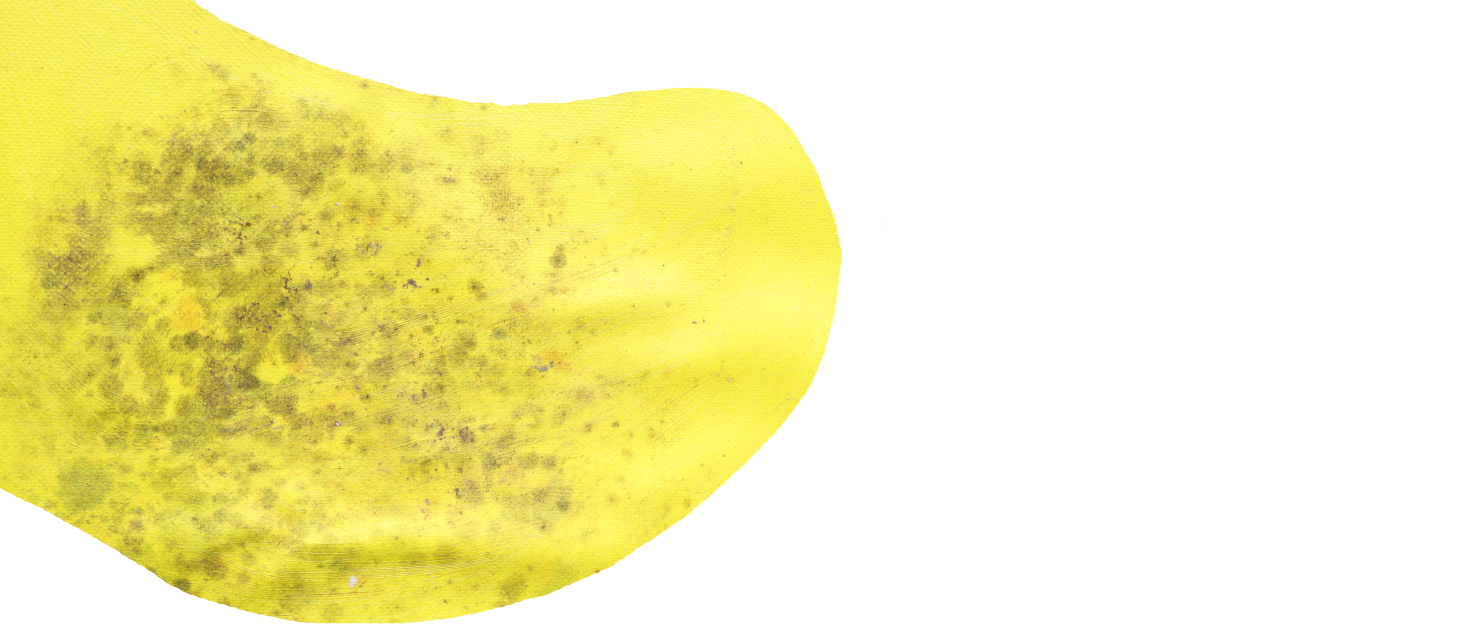
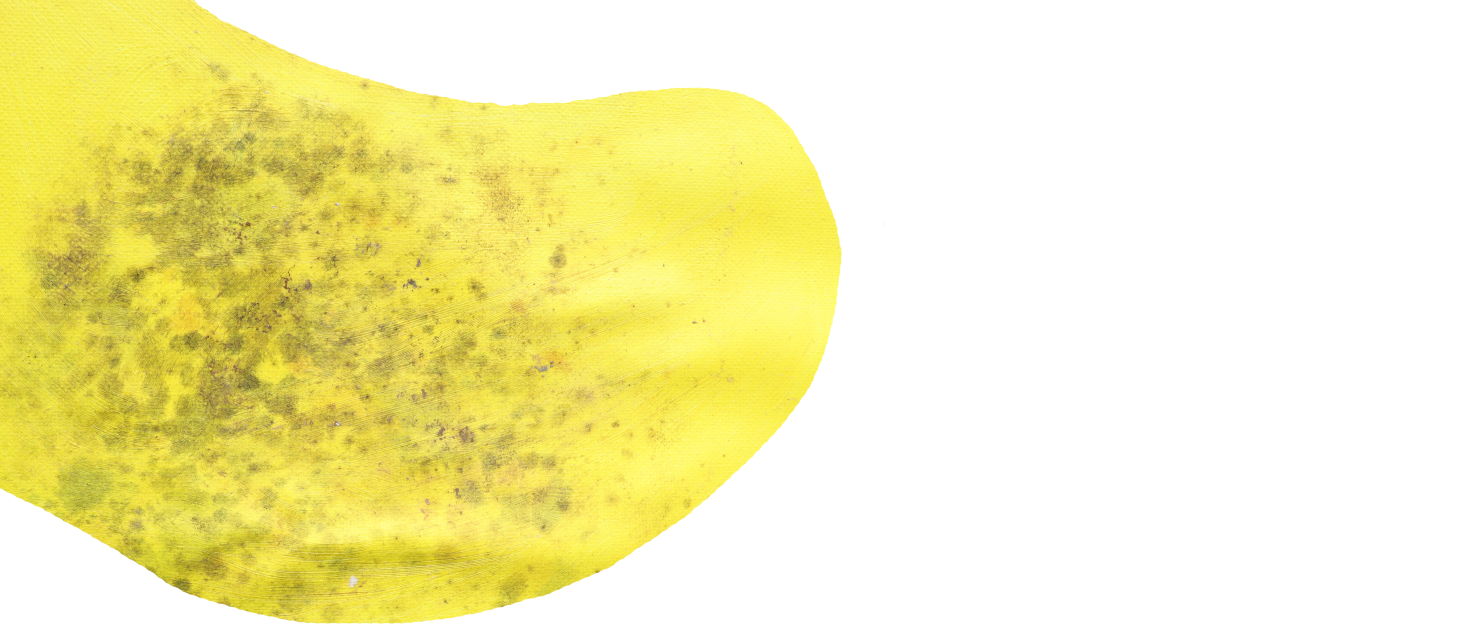
Shrink header

diff --git a/ya-theme/templates/index.html b/ya-theme/templates/index.html
@@ -2,24 +2,14 @@
 
 {% block text0 %}
     {% if language == "de" %}
-        im sinne eines postkolonialen diskurs soll
-        unterschiedliche verterer:innen von raeumlich und zeitlich getrennter avancierter
-        musiktraditionen innherlab
-        innerhalb der in ihrer tradition angemessenen auffuehreungsbedingungen.
+        click, click, click, yet another click, click, click
     {% else %}
-        enlish text enlish textenlish textenlish textenlish text
-        enlish text enlish textenlish textenlish textenlish text
-        enlish text enlish textenlish textenlish textenlish text
-        enlish text enlish textenlish textenlish textenlish text
+        click, click, click, yet another click, click, click
     {% endif %}
 {% endblock %}
 
 {% block text1 %}
     {% if language == "de" %}
-        im sinne eines postkolonialen diskurs soll
-        unterschiedliche verterer:innen von raeumlich und zeitlich getrennter avancierter
-        musiktraditionen innherlab
-        innerhalb der in ihrer tradition angemessenen auffuehreungsbedingungen.
     {% else %}
         enlish text enlish textenlish textenlish textenlish text
         enlish text enlish textenlish textenlish textenlish text

diff --git a/ya-theme/templates/homepage_base.html b/ya-theme/templates/homepage_base.html
@@ -22,16 +22,6 @@
     <div class="container has-text-right pr-4 mr-4">
         {{ language_selectors.get_language_selector(language, SITEURL + "/" + article.slug) }}
     </div>
-    <div class="columns ml-0 mr-0 pl-0 pr-0 mt-6 pt-6">
-        <div class="column is-half pr-5 mr-5">
-        </div>
-        <div class="column pl-6 ml-6 pt-6 mt-6">
-            <p class="ya-text">
-                {% block header_text %}
-                {% endblock %}
-            </p>
-        </div>
-    </div>
     <div class="columns mb-0 pb-0">
         <div class="column">
         </div>
@@ -48,6 +38,18 @@
             </p>
         </div>
         <div class="column is-one-fifth"></div>
+    </div>
+    <div class="columns ml-0 mr-0 pl-0 pr-0 mt-0 pt-0">
+        <div class="column is-half pr-5 mr-5">
+        </div>
+        <div class="column  pl-0 ml-0 pt-0 mt-0">
+            <p class="ya-text">
+                {% block header_text %}
+                {% endblock %}
+            </p>
+        </div>
+        <div class="column">
+        </div>
     </div>
     <div class="columns mt-0 pt-0">
         <div class="column">

diff --git a/ya-theme/static/css/homepage.css b/ya-theme/static/css/homepage.css
@@ -29,7 +29,7 @@
 
 
 .ya-header  {
-    background-image: url("/theme/images/yllwmoss_ya1_erk_resized.png");
+    background-image: url("/theme/images/yllwmoss_ya1_erk_resized_cropped.png");
     background-repeat: no-repeat;
       background-size: contain;
     padding-bottom: 16vh;

diff --git a/ya-theme/templates/homepage_short.html b/ya-theme/templates/homepage_short.html
@@ -1,5 +1,5 @@
 {% extends "homepage.html" %}
 
 {% block sidebar_text %}
-    ¹yet another
+    ¹ya
 {% endblock %}
